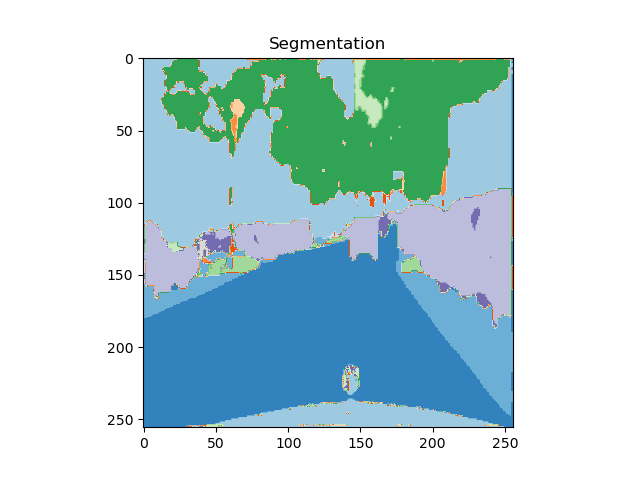
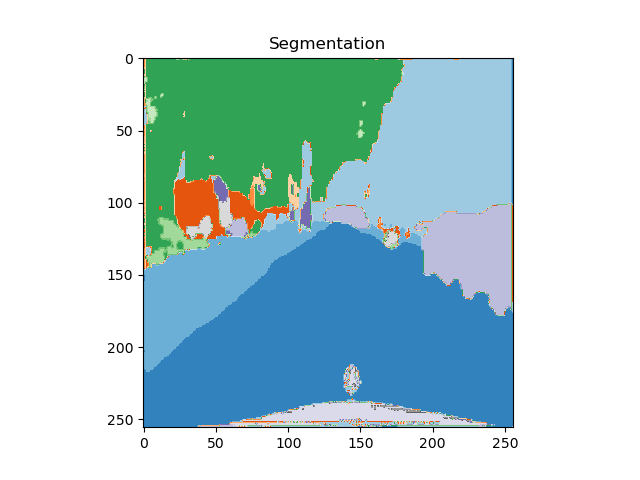
Training new model

Changed region(s): [[0.2188, 0.125, 0.8125, 0.875], [0.3125, 0.75, 0.7812, 0.9062]]

diff --git a/model.py b/model.py
@@ -6,7 +6,7 @@ import numpy as np
 """ segmentation model example
 """
 
-class Model(nn.Module):
+class Unet(nn.Module):
     def __init__(self):
         super().__init__()
 
@@ -107,6 +107,123 @@ class decoder_block(nn.Module):
         x = self.conv(x)
 
         return x
+
+
+class SegNet(nn.Module):
+    def __init__(self):
+        super().__init__()
+
+        # Pooling layers
+        self.pool = nn.MaxPool2d(kernel_size=2, stride=2, return_indices=True)
+        self.unpool = nn.MaxUnpool2d(kernel_size=2, stride=2)
+
+        # Encode stage 1
+        self.enc_1a = nn.Conv2d(3, 64, kernel_size=3, padding=1)
+        self.enc_1b = nn.Conv2d(64, 64, kernel_size=3, padding=1)
+        self.norm_1 = nn.BatchNorm2d(64, momentum=0.5)
+
+        # Encode stage 2
+        self.enc_2a = nn.Conv2d(64, 128, kernel_size=3, padding=1)
+        self.enc_2b = nn.Conv2d(128, 128, kernel_size=3, padding=1)
+        self.norm_2 = nn.BatchNorm2d(128, momentum=0.5)
+
+        # Encode stage 3
+        self.enc_3a = nn.Conv2d(128, 256, kernel_size=3, padding=1)
+        self.enc_3b = nn.Conv2d(256, 256, kernel_size=3, padding=1)
+        self.norm_3 = nn.BatchNorm2d(256, momentum=0.5)
+        
+        # Encode stage 4
+        self.enc_4a = nn.Conv2d(256, 512, kernel_size=3, padding=1)
+        self.enc_4b = nn.Conv2d(512, 512, kernel_size=3, padding=1)
+        self.norm_4 = nn.BatchNorm2d(512, momentum=0.5)
+
+        # Encode stage 5
+        self.enc_5a = nn.Conv2d(512, 512, kernel_size=3, padding=1)
+        self.enc_5b = nn.Conv2d(512, 512, kernel_size=3, padding=1)
+        self.norm_5 = nn.BatchNorm2d(512, momentum=0.5) 
+
+        # Decode stage 5    
+        self.dec_5a = nn.Conv2d(512, 512, kernel_size=3, padding=1)
+        self.dec_5b = nn.Conv2d(512, 512, kernel_size=3, padding=1)
+
+        # Decode stage 4    
+        self.dec_4a = nn.Conv2d(512, 512, kernel_size=3, padding=1)
+        self.dec_4b = nn.Conv2d(512, 256, kernel_size=3, padding=1)
+
+        # Decode stage 3    
+        self.dec_3a = nn.Conv2d(256, 256, kernel_size=3, padding=1)
+        self.dec_3b = nn.Conv2d(256, 128, kernel_size=3, padding=1)
+
+        # Decode stage 2    
+        self.dec_2a = nn.Conv2d(128, 128, kernel_size=3, padding=1)
+        self.dec_2b = nn.Conv2d(128, 64, kernel_size=3, padding=1)
+
+        # Decode stage 1    
+        self.dec_1a = nn.Conv2d(64, 64, kernel_size=3, padding=1)
+        self.dec_1b = nn.Conv2d(64, 19, kernel_size=3, padding=1)     
+
+    def forward(self, x):
+        # Encode stage 1
+        x = function.relu(self.norm_1(self.enc_1a(x))) 
+        x = function.relu(self.norm_1(self.enc_1b(x))) 
+        x, ind1 = self.pool(x)
+        size1 = x.size()
+
+        # Encode stage 2
+        x = function.relu(self.norm_2(self.enc_2a(x))) 
+        x = function.relu(self.norm_2(self.enc_2b(x))) 
+        x, ind2 = self.pool(x)
+        size2 = x.size()
+
+        # Encode stage 3
+        x = function.relu(self.norm_3(self.enc_3a(x))) 
+        x = function.relu(self.norm_3(self.enc_3b(x))) 
+        x = function.relu(self.norm_3(self.enc_3b(x)))
+        x, ind3 = self.pool(x)
+        size3 = x.size()
+
+        # Encode stage 4
+        x = function.relu(self.norm_4(self.enc_4a(x))) 
+        x = function.relu(self.norm_4(self.enc_4b(x))) 
+        x = function.relu(self.norm_4(self.enc_4b(x)))
+        x, ind4 = self.pool(x)
+        size4 = x.size()
+
+        # Encode stage 5
+        x = function.relu(self.norm_5(self.enc_5a(x))) 
+        x = function.relu(self.norm_5(self.enc_5b(x))) 
+        x = function.relu(self.norm_5(self.enc_5b(x)))
+        x, ind5 = self.pool(x)
+
+        # Decode Stage 5
+        x = self.unpool(x, ind5, output_size=size4)
+        x = function.relu(self.norm_5(self.dec_5a(x)))
+        x = function.relu(self.norm_5(self.dec_5a(x)))
+        x = function.relu(self.norm_5(self.dec_5b(x)))
+
+        # Decode Stage 4
+        x = self.unpool(x, ind4, output_size=size3)
+        x = function.relu(self.norm_4(self.dec_4a(x)))
+        x = function.relu(self.norm_4(self.dec_4a(x)))
+        x = function.relu(self.norm_3(self.dec_4b(x)))
+
+        # Decode Stage 3
+        x = self.unpool(x, ind3, output_size=size2)
+        x = function.relu(self.norm_3(self.dec_3a(x)))
+        x = function.relu(self.norm_3(self.dec_3a(x)))
+        x = function.relu(self.norm_2(self.dec_3b(x)))
+
+        # Decode Stage 2
+        x = self.unpool(x, ind2, output_size=size1)
+        x = function.relu(self.norm_2(self.dec_2a(x)))
+        x = function.relu(self.norm_1(self.dec_2b(x)))
+
+        # Decode Stage 1
+        x = self.unpool(x, ind1)
+        x = function.relu(self.norm_1(self.dec_1a(x)))
+        x = self.dec_1b(x)
+
+        return x   
 
 
 class Efficiency_model(nn.Module):

diff --git a/train.py b/train.py
@@ -8,7 +8,7 @@ from argparse import ArgumentParser
 from torch.utils.data import DataLoader, random_split
 import torch.nn as nn
 import torch
-from model import Model, Efficiency_model
+from model import SegNet, Unet, Efficiency_model
 import os
 import numpy as np
 import matplotlib.pyplot as plt
@@ -65,13 +65,13 @@ def main(args):
 
     # data loading
     path_local = "C:\\Users\\20192326\\Documents\\YEAR 1 AIES\\Neural networks for computer vision\\Assignment\\data"
-    dataset = Cityscapes(args.data_path, split='train', mode='fine', target_type='semantic', transforms=regular_transform) #args.data_path
+    dataset = Cityscapes(path_local, split='train', mode='fine', target_type='semantic', transforms=regular_transform) #args.data_path
     validation_ratio = 0.1
     val_size = int(validation_ratio*len(dataset))
     train_size = len(dataset)-val_size
     train_dataset, val_dataset = random_split(dataset, [train_size, val_size])
 
-    batch_size = 50
+    batch_size = 1
     train_loader = DataLoader(train_dataset, batch_size=batch_size, shuffle=True)#, num_worker=8)
     val_loader = DataLoader(val_dataset, batch_size=batch_size, shuffle=True)#, num_worker=8)
 
@@ -84,7 +84,7 @@ def main(args):
     '''
 
     # define model
-    model = Model()#.cuda()
+    model = SegNet()#.cuda()
 
     # define optimizer and loss function (don't forget to ignore class index 255)
     criterion = torch.nn.CrossEntropyLoss(ignore_index=255).to(device)
@@ -157,8 +157,8 @@ def postprocess_dice(prediction, shape):
     return prediction
 
 def visualize():
-    model = Model()
-    model.load_state_dict(torch.load("models\\extended_u_net"))
+    model = Unet()
+    model.load_state_dict(torch.load("models\\Original_model_data_aug"))
 
     # define transform
     regular_transform = transforms.Compose([transforms.Resize((256, 256)),
@@ -205,9 +205,9 @@ if __name__ == "__main__":
     # Get the arguments
     parser = get_arg_parser()
     args = parser.parse_args()
-    main(args)
+    #main(args)
 
-    #visualize()
+    visualize()
     
     #prune_model()
 
